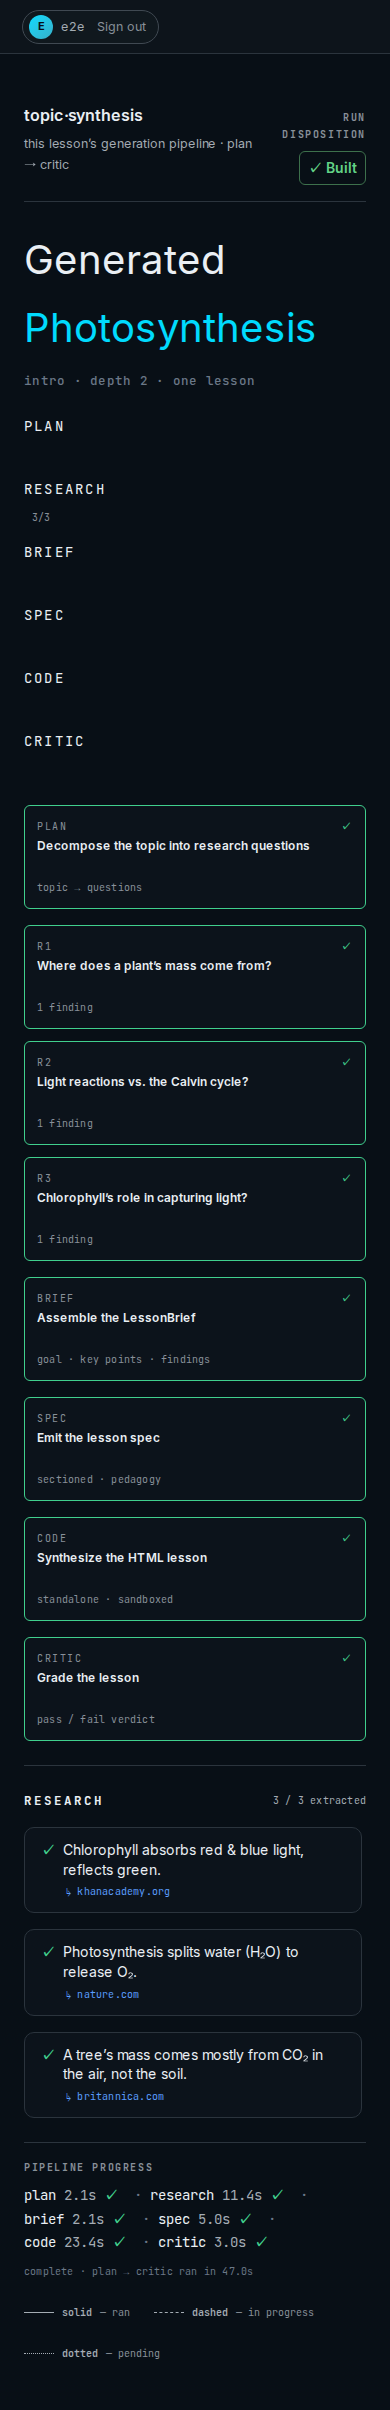
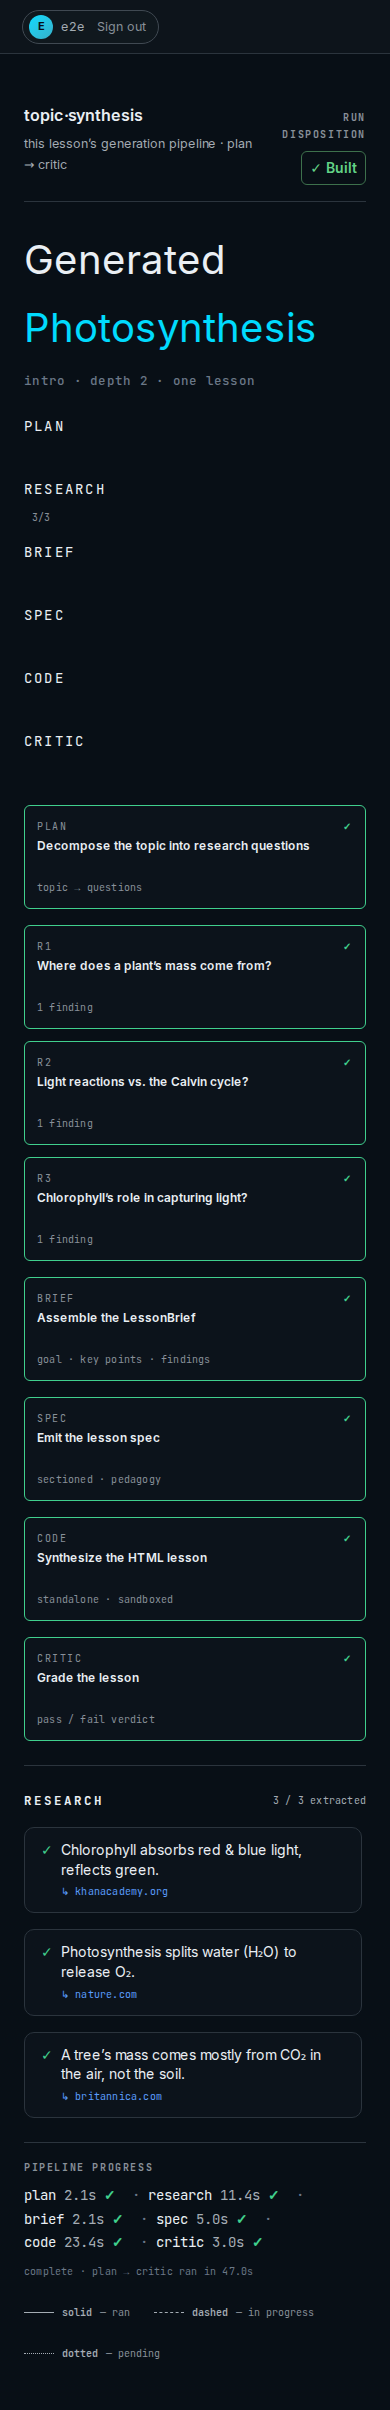
fix(reader): concept-drift escapes + CI-matched frozen-workflow -linux baselines
Two REQUIRED checks were red on #235.

validate (concept-drift): the new workflow/page.tsx named the RETAINED
`curriculum` table/data structure on two comment lines (19 + 43) without an
escape. Both are legitimate code identifiers (ADR-0003 dormant-wrapper
machinery), not user copy, so each gets an inline `concept-drift-ok:` tag;
scripts/check-concept-drift.sh now exits 0.

e2e + visual: `workflow-frozen.png` failed with a 1% (7939px) diff spread across
ALL page text — font antialiasing between the lockfile-pinned
mcr.microsoft.com/playwright container (where the -linux baselines were first
generated) and CI's bare ubuntu-latest runner. NOT a determinism bug: the seed's
step_event/research_event timestamps are already FIXED absolute (SEED_EPOCH), so
the rendered durations are deterministic — verified by three consecutive
pixel-identical local renders, and the CI diff highlights every glyph (AA), not a
changed duration. Fix: replace the two -linux baselines with CI's own
ubuntu-latest renders (the failing run's playwright-report actuals), so they
match the runner that compares them. The -darwin baselines (local runs) are
unchanged.

diff --git a/src/app/lesson/[id]/workflow/page.tsx b/src/app/lesson/[id]/workflow/page.tsx
@@ -16,7 +16,7 @@ export const dynamic = 'force-dynamic';
  * (they coexist; the degraded reader page links here).
  *
  * OWNER GATE — the load-bearing subtlety. It gates on `getSessionIdentity()` → `getLesson(id, sub)`
- * (DURABLE `curriculum`, owner-scoped) → `notFound()` when null. It MUST NOT gate on `ownsRun` — that
+ * (DURABLE `curriculum`, owner-scoped) → `notFound()` when null. It MUST NOT gate on `ownsRun` — that concept-drift-ok: names the RETAINED `curriculum` table (ADR-0003 — DB rename still deferred)
  * reads `run_owner`, which `persistRun` PRUNES at persist, so an `ownsRun` gate would 404 *every* completed
  * run. `getLesson`'s `WHERE owner_sub = $2 AND deleted_at IS NULL` makes a foreign / absent / soft-deleted
  * id a uniform 404 (no existence oracle) — the SAME gate #175's disclosure already relies on.
@@ -40,7 +40,7 @@ export default async function WorkflowPage({ params }: { params: Promise<{ id: s
   // the read layer, so the gate must precede them — it does).
   const [steps, research] = await Promise.all([getStepEvents(id), getResearchEvents(id)]);
 
-  // The lone page of the single-lesson curriculum → the SHARED disposition source (issue #232), so the
+  // The lone page of the single-lesson curriculum → the SHARED disposition source (issue #232), so the concept-drift-ok: names the RETAINED `curriculum` data structure (ADR-0003 — DB rename still deferred)
   // frozen chip and the reader page can't drift (page.tsx reads the same `deriveDisposition`).
   const page = view.hub.tiers
     .flatMap((tier) => tier.categories.flatMap((category) => category.pages))